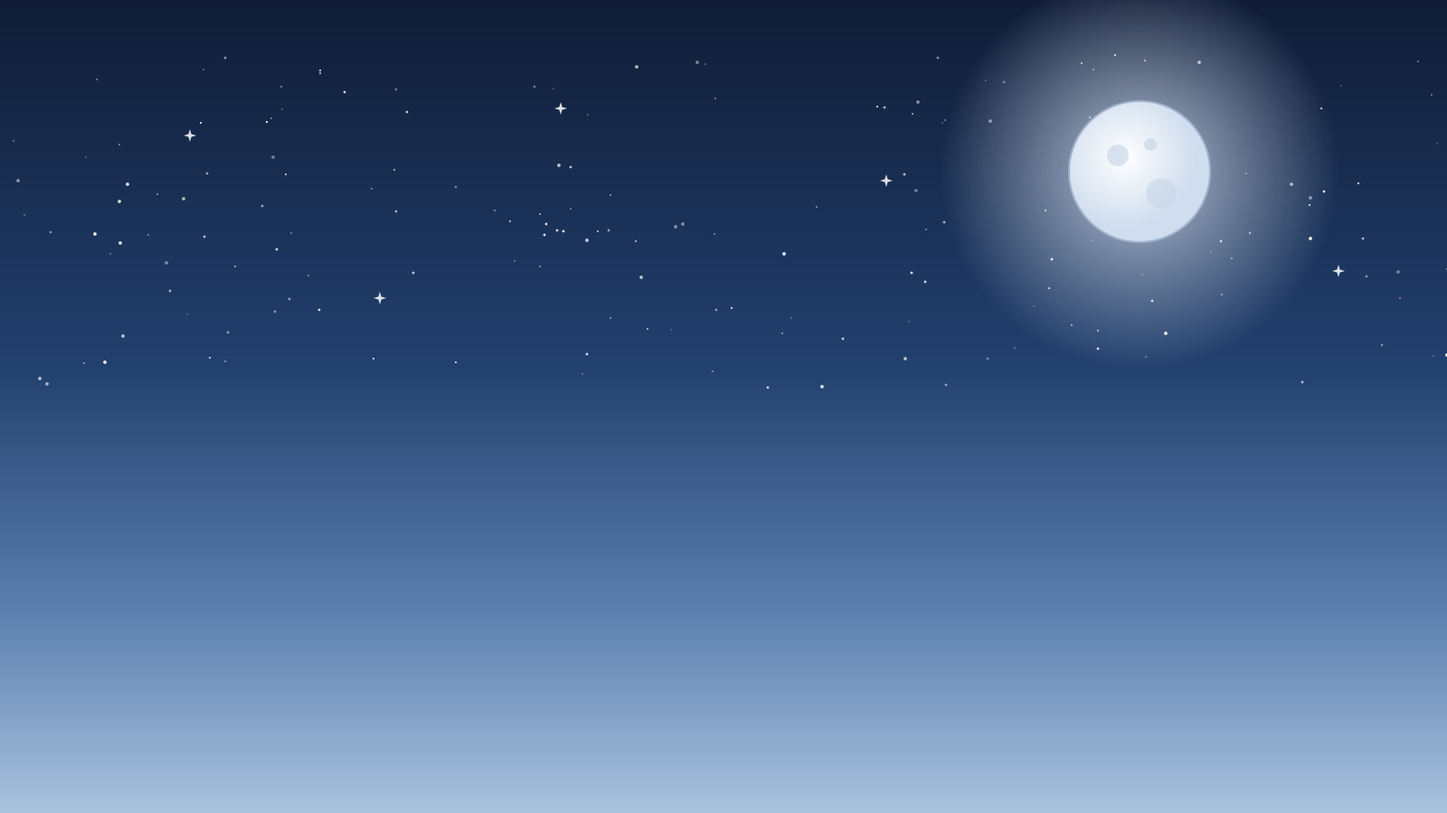
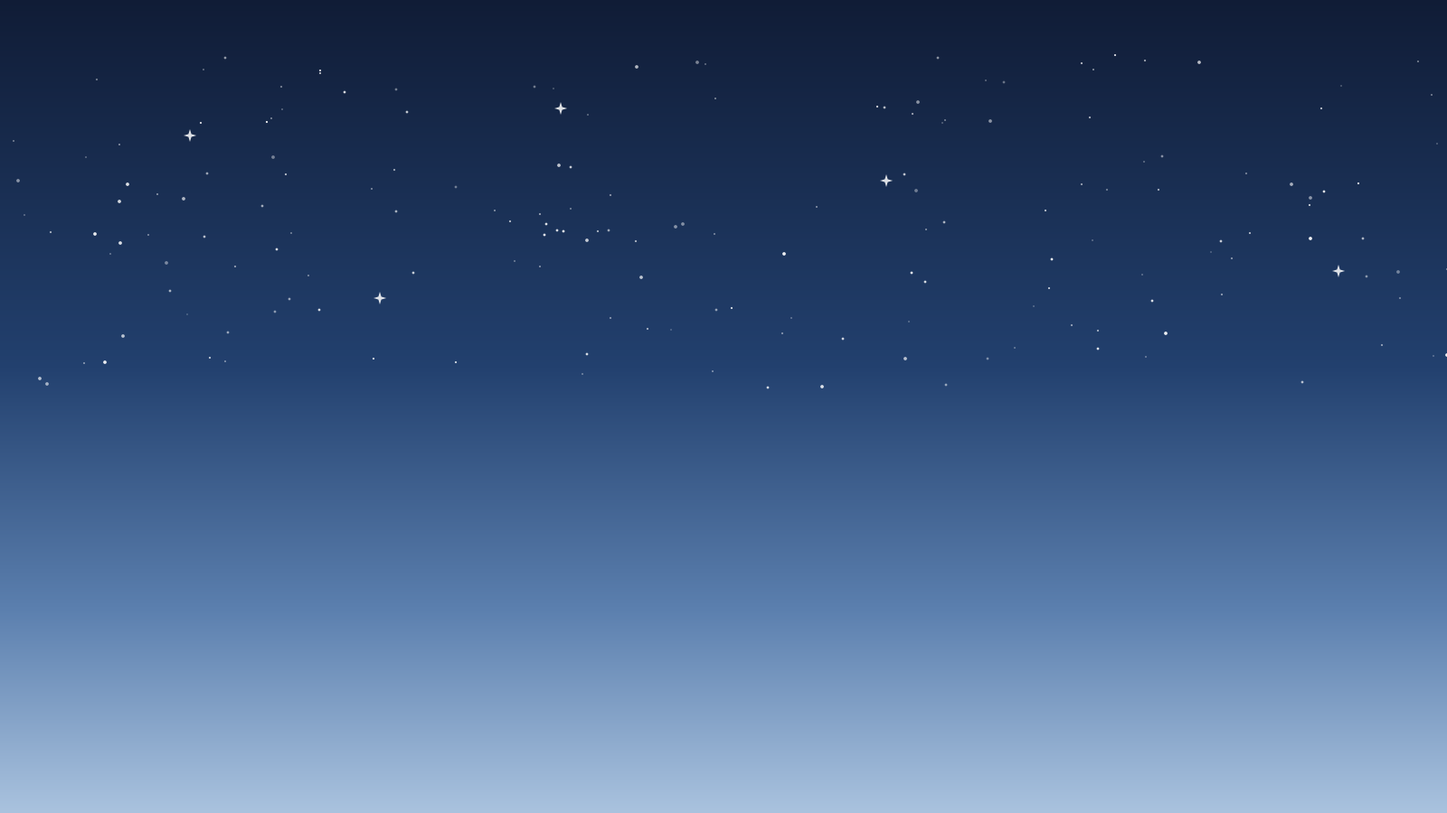
rig for red one

Changed region(s): [[0.6562, 0.0, 0.9062, 0.4356]]

diff --git a/assets/puppet/chien_binh_tuyet/preview.html b/assets/puppet/chien_binh_tuyet/preview.html
@@ -15,7 +15,7 @@
 <button id="sway">Lắc lư</button><button id="piv">Pivot</button><button id="reset">Reset</button></div>
 <div id="sl"></div></div>
 <script>
-const RIG = {"name": "chien_binh_tuyet", "units": "design units (1 unit = 2 px in PNG); y points down; _L = viewer's left; colliders are relative to the part pivot", "canvas": [400, 720], "pngScale": 2, "feetY": 676, "parts": [{"id": "torso", "parent": null, "z": 4, "svg": "parts/torso.svg", "png": "parts/torso.png", "origin": [144, 170], "size": [112, 183], "pivot": [56, 110], "pivotWorld": [200, 280], "limitDeg": null, "density": 1.0, "colliders": [{"type": "capsule", "a": [0, -44], "b": [0, 38], "r": 40}]}, {"id": "head", "parent": "torso", "z": 11, "svg": "parts/head.svg", "png": "parts/head.png", "origin": [141, 40], "size": [118, 209], "pivot": [59, 150], "pivotWorld": [200, 190], "limitDeg": [-30, 30], "density": 0.8, "colliders": [{"type": "circle", "c": [0, -48], "r": 38}, {"type": "capsule", "a": [-34, -102], "b": [34, -102], "r": 24}]}, {"id": "braid", "parent": "head", "z": 7, "svg": "parts/braid.svg", "png": "parts/braid.png", "origin": [140, 151], "size": [48, 235], "pivot": [34, 9], "pivotWorld": [174, 160], "limitDeg": [-25, 25], "density": 0.25, "colliders": [{"type": "capsule", "a": [-4, 15], "b": [-14, 205], "r": 12}]}, {"id": "cape", "parent": "torso", "z": 0, "svg": "parts/cape.svg", "png": "parts/cape.png", "origin": [96, 194], "size": [208, 422], "pivot": [104, 16], "pivotWorld": [200, 210], "limitDeg": [-18, 18], "density": 0.2, "colliders": [{"type": "capsule", "a": [0, 50], "b": [0, 350], "r": 48}]}, {"id": "skirt", "parent": "torso", "z": 5, "svg": "parts/skirt.svg", "png": "parts/skirt.png", "origin": [100, 325], "size": [200, 339], "pivot": [100, 9], "pivotWorld": [200, 334], "limitDeg": [-12, 12], "density": 0.3, "colliders": [{"type": "capsule", "a": [0, 76], "b": [0, 256], "r": 62}]}, {"id": "thigh_L", "parent": "torso", "z": 2, "svg": "parts/thigh_L.svg", "png": "parts/thigh_L.png", "origin": [159, 348], "size": [49, 173], "pivot": [25, 24], "pivotWorld": [184, 372], "limitDeg": [-70, 60], "density": 1.0, "colliders": [{"type": "capsule", "a": [0, 0], "b": [-4, 128], "r": 16}]}, {"id": "shin_L", "parent": "thigh_L", "z": 1, "svg": "parts/shin_L.svg", "png": "parts/shin_L.png", "origin": [132, 479], "size": [71, 181], "pivot": [48, 21], "pivotWorld": [180, 500], "limitDeg": [-10, 120], "density": 1.0, "colliders": [{"type": "capsule", "a": [0, 0], "b": [-2, 122], "r": 14}, {"type": "capsule", "a": [2, 142], "b": [-32, 148], "r": 9}]}, {"id": "thigh_R", "parent": "torso", "z": 2, "svg": "parts/thigh_R.svg", "png": "parts/thigh_R.png", "origin": [192, 348], "size": [49, 173], "pivot": [24, 24], "pivotWorld": [216, 372], "limitDeg": [-60, 70], "density": 1.0, "colliders": [{"type": "capsule", "a": [0, 0], "b": [4, 128], "r": 16}]}, {"id": "shin_R", "parent": "thigh_R", "z": 1, "svg": "parts/shin_R.svg", "png": "parts/shin_R.png", "origin": [197, 479], "size": [71, 181], "pivot": [23, 21], "pivotWorld": [220, 500], "limitDeg": [-120, 10], "density": 1.0, "colliders": [{"type": "capsule", "a": [0, 0], "b": [2, 122], "r": 14}, {"type": "capsule", "a": [-2, 142], "b": [32, 148], "r": 9}]}, {"id": "upper_arm_L", "parent": "torso", "z": 8, "svg": "parts/upper_arm_L.svg", "png": "parts/upper_arm_L.png", "origin": [113, 204], "size": [71, 117], "pivot": [47, 20], "pivotWorld": [160, 224], "limitDeg": [-150, 60], "density": 1.0, "colliders": [{"type": "capsule", "a": [0, 0], "b": [-30, 80], "r": 12}]}, {"id": "forearm_L", "parent": "upper_arm_L", "z": 9, "svg": "parts/forearm_L.svg", "png": "parts/forearm_L.png", "origin": [96, 287], "size": [51, 139], "pivot": [34, 17], "pivotWorld": [130, 304], "limitDeg": [-140, 10], "density": 1.0, "colliders": [{"type": "capsule", "a": [0, 0], "b": [-18.2, 106.6], "r": 10}]}, {"id": "upper_arm_R", "parent": "torso", "z": 8, "svg": "parts/upper_arm_R.svg", "png": "parts/upper_arm_R.png", "origin": [216, 204], "size": [71, 117], "pivot": [24, 20], "pivotWorld": [240, 224], "limitDeg": [-60, 150], "density": 1.0, "colliders": [{"type": "capsule", "a": [0, 0], "b": [30, 80], "r": 12}]}, {"id": "forearm_R", "parent": "upper_arm_R", "z": 10, "svg": "parts/forearm_R.svg", "png": "parts/forearm_R.png", "origin": [253, 287], "size": [51, 139], "pivot": [17, 17], "pivotWorld": [270, 304], "limitDeg": [-10, 140], "density": 1.0, "colliders": [{"type": "capsule", "a": [0, 0], "b": [18.2, 106.6], "r": 10}]}, {"id": "spear", "parent": "forearm_R", "z": 6, "svg": "parts/spear.svg", "png": "parts/spear.png", "origin": [258, 0], "size": [50, 680], "pivot": [30, 398], "pivotWorld": [288, 398], "limitDeg": [-15, 15], "density": 0.5, "colliders": [{"type": "capsule", "a": [0, -378], "b": [0, 266], "r": 7}]}], "strings": [{"id": "head", "part": "head", "anchor": [59, 10], "anchorWorld": [200, 50], "finger": "middle", "mpLandmark": 12}, {"id": "hand_L", "part": "forearm_L", "anchor": [16.92, 117.04], "anchorWorld": [112.92, 404.04], "finger": "index", "mpLandmark": 8}, {"id": "hand_R", "part": "forearm_R", "anchor": [34.08, 117.04], "anchorWorld": [287.08, 404.04], "finger": "ring", "mpLandmark": 16}, {"id": "knee_L", "part": "shin_L", "anchor": [48, 21], "anchorWorld": [180, 500], "finger": "thumb", "mpLandmark": 4}, {"id": "knee_R", "part": "shin_R", "anchor": [23, 21], "anchorWorld": [220, 500], "finger": "pinky", "mpLandmark": 20}]};
+const RIG = {"name": "chien_binh_tuyet", "units": "design units (1 unit = 2 px in PNG); y points down; _L = viewer's left; colliders are relative to the part pivot", "canvas": [400, 720], "pngScale": 2, "feetY": 676, "parts": [{"id": "torso", "parent": null, "z": 4, "svg": "parts/torso.svg", "png": "parts/torso.png", "origin": [144, 170], "size": [112, 183], "pivot": [56, 110], "pivotWorld": [200, 280], "limitDeg": null, "density": 1.0, "colliders": [{"type": "capsule", "a": [0, -44], "b": [0, 38], "r": 40}]}, {"id": "head", "parent": "torso", "z": 11, "svg": "parts/head.svg", "png": "parts/head.png", "origin": [141, 40], "size": [118, 209], "pivot": [59, 150], "pivotWorld": [200, 190], "limitDeg": [-30, 30], "density": 0.8, "colliders": [{"type": "circle", "c": [0, -48], "r": 38}, {"type": "capsule", "a": [-34, -102], "b": [34, -102], "r": 24}]}, {"id": "braid", "parent": "head", "z": 7, "svg": "parts/braid.svg", "png": "parts/braid.png", "origin": [140, 151], "size": [48, 235], "pivot": [34, 9], "pivotWorld": [174, 160], "limitDeg": [-25, 25], "density": 0.25, "colliders": [{"type": "capsule", "a": [-4, 15], "b": [-14, 205], "r": 12}]}, {"id": "cape", "parent": "torso", "z": 0, "svg": "parts/cape.svg", "png": "parts/cape.png", "origin": [96, 194], "size": [208, 422], "pivot": [104, 16], "pivotWorld": [200, 210], "limitDeg": [-18, 18], "density": 0.2, "colliders": [{"type": "capsule", "a": [0, 50], "b": [0, 310], "r": 48}, {"type": "capsule", "a": [-64, 360], "b": [64, 360], "r": 30}]}, {"id": "skirt", "parent": "torso", "z": 5, "svg": "parts/skirt.svg", "png": "parts/skirt.png", "origin": [100, 325], "size": [200, 339], "pivot": [100, 9], "pivotWorld": [200, 334], "limitDeg": [-12, 12], "density": 0.3, "colliders": [{"type": "capsule", "a": [0, 76], "b": [0, 226], "r": 62}, {"type": "capsule", "a": [-64, 278], "b": [64, 278], "r": 30}]}, {"id": "thigh_L", "parent": "torso", "z": 2, "svg": "parts/thigh_L.svg", "png": "parts/thigh_L.png", "origin": [159, 348], "size": [49, 173], "pivot": [25, 24], "pivotWorld": [184, 372], "limitDeg": [-70, 60], "density": 1.0, "colliders": [{"type": "capsule", "a": [0, 0], "b": [-4, 128], "r": 16}]}, {"id": "shin_L", "parent": "thigh_L", "z": 1, "svg": "parts/shin_L.svg", "png": "parts/shin_L.png", "origin": [132, 479], "size": [71, 181], "pivot": [48, 21], "pivotWorld": [180, 500], "limitDeg": [-10, 120], "density": 1.0, "colliders": [{"type": "capsule", "a": [0, 0], "b": [-2, 122], "r": 14}, {"type": "capsule", "a": [2, 142], "b": [-32, 148], "r": 9}]}, {"id": "thigh_R", "parent": "torso", "z": 2, "svg": "parts/thigh_R.svg", "png": "parts/thigh_R.png", "origin": [192, 348], "size": [49, 173], "pivot": [24, 24], "pivotWorld": [216, 372], "limitDeg": [-60, 70], "density": 1.0, "colliders": [{"type": "capsule", "a": [0, 0], "b": [4, 128], "r": 16}]}, {"id": "shin_R", "parent": "thigh_R", "z": 1, "svg": "parts/shin_R.svg", "png": "parts/shin_R.png", "origin": [197, 479], "size": [71, 181], "pivot": [23, 21], "pivotWorld": [220, 500], "limitDeg": [-120, 10], "density": 1.0, "colliders": [{"type": "capsule", "a": [0, 0], "b": [2, 122], "r": 14}, {"type": "capsule", "a": [-2, 142], "b": [32, 148], "r": 9}]}, {"id": "upper_arm_L", "parent": "torso", "z": 8, "svg": "parts/upper_arm_L.svg", "png": "parts/upper_arm_L.png", "origin": [113, 204], "size": [71, 117], "pivot": [47, 20], "pivotWorld": [160, 224], "limitDeg": [-150, 60], "density": 1.0, "colliders": [{"type": "capsule", "a": [0, 0], "b": [-30, 80], "r": 12}]}, {"id": "forearm_L", "parent": "upper_arm_L", "z": 9, "svg": "parts/forearm_L.svg", "png": "parts/forearm_L.png", "origin": [96, 287], "size": [51, 139], "pivot": [34, 17], "pivotWorld": [130, 304], "limitDeg": [-140, 10], "density": 1.0, "colliders": [{"type": "capsule", "a": [0, 0], "b": [-18.2, 106.6], "r": 10}]}, {"id": "upper_arm_R", "parent": "torso", "z": 8, "svg": "parts/upper_arm_R.svg", "png": "parts/upper_arm_R.png", "origin": [216, 204], "size": [71, 117], "pivot": [24, 20], "pivotWorld": [240, 224], "limitDeg": [-60, 150], "density": 1.0, "colliders": [{"type": "capsule", "a": [0, 0], "b": [30, 80], "r": 12}]}, {"id": "forearm_R", "parent": "upper_arm_R", "z": 10, "svg": "parts/forearm_R.svg", "png": "parts/forearm_R.png", "origin": [253, 287], "size": [51, 139], "pivot": [17, 17], "pivotWorld": [270, 304], "limitDeg": [-10, 140], "density": 1.0, "colliders": [{"type": "capsule", "a": [0, 0], "b": [18.2, 106.6], "r": 10}]}, {"id": "spear", "parent": "forearm_R", "z": 6, "svg": "parts/spear.svg", "png": "parts/spear.png", "origin": [258, 0], "size": [50, 680], "pivot": [30, 398], "pivotWorld": [288, 398], "limitDeg": [-15, 15], "density": 0.5, "colliders": [{"type": "capsule", "a": [0, -378], "b": [0, 266], "r": 7}]}], "strings": [{"id": "head", "part": "head", "anchor": [59, 10], "anchorWorld": [200, 50], "finger": "middle", "mpLandmark": 12}, {"id": "hand_L", "part": "forearm_L", "anchor": [16.92, 117.04], "anchorWorld": [112.92, 404.04], "finger": "index", "mpLandmark": 8}, {"id": "hand_R", "part": "forearm_R", "anchor": [34.08, 117.04], "anchorWorld": [287.08, 404.04], "finger": "ring", "mpLandmark": 16}, {"id": "knee_L", "part": "shin_L", "anchor": [48, 21], "anchorWorld": [180, 500], "finger": "thumb", "mpLandmark": 4}, {"id": "knee_R", "part": "shin_R", "anchor": [23, 21], "anchorWorld": [220, 500], "finger": "pinky", "mpLandmark": 20}]};
 const cv = document.getElementById('cv'), ctx = cv.getContext('2d'), S = RIG.pngScale;
 const P = Object.fromEntries(RIG.parts.map(p => [p.id, {...p, angle: 0, img: new Image()}]));
 let n = 0, sway = false, piv = false, t0 = 0;

diff --git a/assets/puppet/ve_binh_streltsy/preview.html b/assets/puppet/ve_binh_streltsy/preview.html
@@ -15,7 +15,7 @@
 <button id="sway">Lắc lư</button><button id="piv">Pivot</button><button id="reset">Reset</button></div>
 <div id="sl"></div></div>
 <script>
-const RIG = {"name": "ve_binh_streltsy", "units": "design units (1 unit = 2 px in PNG); y points down; _L = viewer's left; colliders are relative to the part pivot", "canvas": [400, 720], "pngScale": 2, "feetY": 656, "parts": [{"id": "torso", "parent": null, "z": 4, "svg": "parts/torso.svg", "png": "parts/torso.png", "origin": [144, 170], "size": [112, 225], "pivot": [56, 110], "pivotWorld": [200, 280], "limitDeg": null, "density": 1.0, "colliders": [{"type": "capsule", "a": [0, -44], "b": [0, 38], "r": 40}]}, {"id": "head", "parent": "torso", "z": 11, "svg": "parts/head.svg", "png": "parts/head.png", "origin": [140, 28], "size": [120, 207], "pivot": [60, 162], "pivotWorld": [200, 190], "limitDeg": [-30, 30], "density": 0.8, "colliders": [{"type": "circle", "c": [0, -48], "r": 38}, {"type": "capsule", "a": [-32, -106], "b": [32, -106], "r": 30}]}, {"id": "braid", "parent": "head", "z": 7, "svg": "parts/braid.svg", "png": "parts/braid.png", "origin": [213, 151], "size": [49, 233], "pivot": [13, 9], "pivotWorld": [226, 160], "limitDeg": [-25, 25], "density": 0.25, "colliders": [{"type": "capsule", "a": [4, 15], "b": [14, 205], "r": 12}]}, {"id": "skirt", "parent": "torso", "z": 5, "svg": "parts/skirt.svg", "png": "parts/skirt.png", "origin": [130, 325], "size": [140, 260], "pivot": [70, 9], "pivotWorld": [200, 334], "limitDeg": [-12, 12], "density": 0.3, "colliders": [{"type": "capsule", "a": [0, 56], "b": [0, 206], "r": 46}]}, {"id": "thigh_L", "parent": "torso", "z": 2, "svg": "parts/thigh_L.svg", "png": "parts/thigh_L.png", "origin": [159, 348], "size": [49, 173], "pivot": [25, 24], "pivotWorld": [184, 372], "limitDeg": [-70, 60], "density": 1.0, "colliders": [{"type": "capsule", "a": [0, 0], "b": [-4, 128], "r": 16}]}, {"id": "shin_L", "parent": "thigh_L", "z": 1, "svg": "parts/shin_L.svg", "png": "parts/shin_L.png", "origin": [124, 479], "size": [78, 181], "pivot": [56, 21], "pivotWorld": [180, 500], "limitDeg": [-10, 120], "density": 1.0, "colliders": [{"type": "capsule", "a": [0, 0], "b": [-2, 122], "r": 14}, {"type": "capsule", "a": [2, 142], "b": [-42, 144], "r": 9}]}, {"id": "thigh_R", "parent": "torso", "z": 2, "svg": "parts/thigh_R.svg", "png": "parts/thigh_R.png", "origin": [192, 348], "size": [49, 173], "pivot": [24, 24], "pivotWorld": [216, 372], "limitDeg": [-60, 70], "density": 1.0, "colliders": [{"type": "capsule", "a": [0, 0], "b": [4, 128], "r": 16}]}, {"id": "shin_R", "parent": "thigh_R", "z": 1, "svg": "parts/shin_R.svg", "png": "parts/shin_R.png", "origin": [198, 479], "size": [78, 181], "pivot": [22, 21], "pivotWorld": [220, 500], "limitDeg": [-120, 10], "density": 1.0, "colliders": [{"type": "capsule", "a": [0, 0], "b": [2, 122], "r": 14}, {"type": "capsule", "a": [-2, 142], "b": [42, 144], "r": 9}]}, {"id": "upper_arm_L", "parent": "torso", "z": 8, "svg": "parts/upper_arm_L.svg", "png": "parts/upper_arm_L.png", "origin": [112, 204], "size": [68, 118], "pivot": [48, 20], "pivotWorld": [160, 224], "limitDeg": [-150, 60], "density": 1.0, "colliders": [{"type": "capsule", "a": [0, 0], "b": [-30, 80], "r": 12}]}, {"id": "forearm_L", "parent": "upper_arm_L", "z": 10, "svg": "parts/forearm_L.svg", "png": "parts/forearm_L.png", "origin": [96, 286], "size": [52, 140], "pivot": [34, 18], "pivotWorld": [130, 304], "limitDeg": [-140, 10], "density": 1.0, "colliders": [{"type": "capsule", "a": [0, 0], "b": [-18.2, 106.6], "r": 10}]}, {"id": "upper_arm_R", "parent": "torso", "z": 8, "svg": "parts/upper_arm_R.svg", "png": "parts/upper_arm_R.png", "origin": [220, 204], "size": [68, 118], "pivot": [20, 20], "pivotWorld": [240, 224], "limitDeg": [-60, 150], "density": 1.0, "colliders": [{"type": "capsule", "a": [0, 0], "b": [30, 80], "r": 12}]}, {"id": "forearm_R", "parent": "upper_arm_R", "z": 9, "svg": "parts/forearm_R.svg", "png": "parts/forearm_R.png", "origin": [252, 286], "size": [52, 140], "pivot": [18, 18], "pivotWorld": [270, 304], "limitDeg": [-10, 140], "density": 1.0, "colliders": [{"type": "capsule", "a": [0, 0], "b": [18.2, 106.6], "r": 10}]}, {"id": "saber", "parent": "forearm_L", "z": 6, "svg": "parts/saber.svg", "png": "parts/saber.png", "origin": [63, 98], "size": [74, 387], "pivot": [52, 296], "pivotWorld": [115, 394], "limitDeg": [-20, 20], "density": 0.4, "colliders": [{"type": "capsule", "a": [0, -30], "b": [-14, -180], "r": 7}, {"type": "capsule", "a": [-14, -180], "b": [-46, -290], "r": 6}]}], "strings": [{"id": "head", "part": "head", "anchor": [60, 16], "anchorWorld": [200, 44], "finger": "middle", "mpLandmark": 12}, {"id": "hand_L", "part": "forearm_L", "anchor": [16.92, 118.04], "anchorWorld": [112.92, 404.04], "finger": "index", "mpLandmark": 8}, {"id": "hand_R", "part": "forearm_R", "anchor": [35.08, 118.04], "anchorWorld": [287.08, 404.04], "finger": "ring", "mpLandmark": 16}, {"id": "knee_L", "part": "shin_L", "anchor": [56, 21], "anchorWorld": [180, 500], "finger": "thumb", "mpLandmark": 4}, {"id": "knee_R", "part": "shin_R", "anchor": [22, 21], "anchorWorld": [220, 500], "finger": "pinky", "mpLandmark": 20}]};
+const RIG = {"name": "ve_binh_streltsy", "units": "design units (1 unit = 2 px in PNG); y points down; _L = viewer's left; colliders are relative to the part pivot", "canvas": [400, 720], "pngScale": 2, "feetY": 656, "parts": [{"id": "torso", "parent": null, "z": 4, "svg": "parts/torso.svg", "png": "parts/torso.png", "origin": [144, 170], "size": [112, 225], "pivot": [56, 110], "pivotWorld": [200, 280], "limitDeg": null, "density": 1.0, "colliders": [{"type": "capsule", "a": [0, -44], "b": [0, 38], "r": 40}]}, {"id": "head", "parent": "torso", "z": 11, "svg": "parts/head.svg", "png": "parts/head.png", "origin": [140, 28], "size": [120, 207], "pivot": [60, 162], "pivotWorld": [200, 190], "limitDeg": [-30, 30], "density": 0.8, "colliders": [{"type": "circle", "c": [0, -48], "r": 38}, {"type": "capsule", "a": [-32, -106], "b": [32, -106], "r": 30}]}, {"id": "braid", "parent": "head", "z": 7, "svg": "parts/braid.svg", "png": "parts/braid.png", "origin": [213, 151], "size": [49, 233], "pivot": [13, 9], "pivotWorld": [226, 160], "limitDeg": [-25, 25], "density": 0.25, "colliders": [{"type": "capsule", "a": [4, 15], "b": [14, 205], "r": 12}]}, {"id": "skirt", "parent": "torso", "z": 5, "svg": "parts/skirt.svg", "png": "parts/skirt.png", "origin": [130, 325], "size": [140, 260], "pivot": [70, 9], "pivotWorld": [200, 334], "limitDeg": [-12, 12], "density": 0.3, "colliders": [{"type": "capsule", "a": [0, 56], "b": [0, 186], "r": 46}, {"type": "capsule", "a": [-44, 218], "b": [44, 218], "r": 22}]}, {"id": "thigh_L", "parent": "torso", "z": 2, "svg": "parts/thigh_L.svg", "png": "parts/thigh_L.png", "origin": [159, 348], "size": [49, 173], "pivot": [25, 24], "pivotWorld": [184, 372], "limitDeg": [-70, 60], "density": 1.0, "colliders": [{"type": "capsule", "a": [0, 0], "b": [-4, 128], "r": 16}]}, {"id": "shin_L", "parent": "thigh_L", "z": 1, "svg": "parts/shin_L.svg", "png": "parts/shin_L.png", "origin": [124, 479], "size": [78, 181], "pivot": [56, 21], "pivotWorld": [180, 500], "limitDeg": [-10, 120], "density": 1.0, "colliders": [{"type": "capsule", "a": [0, 0], "b": [-2, 122], "r": 14}, {"type": "capsule", "a": [2, 142], "b": [-42, 144], "r": 9}]}, {"id": "thigh_R", "parent": "torso", "z": 2, "svg": "parts/thigh_R.svg", "png": "parts/thigh_R.png", "origin": [192, 348], "size": [49, 173], "pivot": [24, 24], "pivotWorld": [216, 372], "limitDeg": [-60, 70], "density": 1.0, "colliders": [{"type": "capsule", "a": [0, 0], "b": [4, 128], "r": 16}]}, {"id": "shin_R", "parent": "thigh_R", "z": 1, "svg": "parts/shin_R.svg", "png": "parts/shin_R.png", "origin": [198, 479], "size": [78, 181], "pivot": [22, 21], "pivotWorld": [220, 500], "limitDeg": [-120, 10], "density": 1.0, "colliders": [{"type": "capsule", "a": [0, 0], "b": [2, 122], "r": 14}, {"type": "capsule", "a": [-2, 142], "b": [42, 144], "r": 9}]}, {"id": "upper_arm_L", "parent": "torso", "z": 8, "svg": "parts/upper_arm_L.svg", "png": "parts/upper_arm_L.png", "origin": [112, 204], "size": [68, 118], "pivot": [48, 20], "pivotWorld": [160, 224], "limitDeg": [-150, 60], "density": 1.0, "colliders": [{"type": "capsule", "a": [0, 0], "b": [-30, 80], "r": 12}]}, {"id": "forearm_L", "parent": "upper_arm_L", "z": 10, "svg": "parts/forearm_L.svg", "png": "parts/forearm_L.png", "origin": [96, 286], "size": [52, 140], "pivot": [34, 18], "pivotWorld": [130, 304], "limitDeg": [-140, 10], "density": 1.0, "colliders": [{"type": "capsule", "a": [0, 0], "b": [-18.2, 106.6], "r": 10}]}, {"id": "upper_arm_R", "parent": "torso", "z": 8, "svg": "parts/upper_arm_R.svg", "png": "parts/upper_arm_R.png", "origin": [220, 204], "size": [68, 118], "pivot": [20, 20], "pivotWorld": [240, 224], "limitDeg": [-60, 150], "density": 1.0, "colliders": [{"type": "capsule", "a": [0, 0], "b": [30, 80], "r": 12}]}, {"id": "forearm_R", "parent": "upper_arm_R", "z": 9, "svg": "parts/forearm_R.svg", "png": "parts/forearm_R.png", "origin": [252, 286], "size": [52, 140], "pivot": [18, 18], "pivotWorld": [270, 304], "limitDeg": [-10, 140], "density": 1.0, "colliders": [{"type": "capsule", "a": [0, 0], "b": [18.2, 106.6], "r": 10}]}, {"id": "saber", "parent": "forearm_L", "z": 6, "svg": "parts/saber.svg", "png": "parts/saber.png", "origin": [63, 98], "size": [74, 387], "pivot": [52, 296], "pivotWorld": [115, 394], "limitDeg": [-20, 20], "density": 0.4, "colliders": [{"type": "capsule", "a": [0, -30], "b": [-14, -180], "r": 7}, {"type": "capsule", "a": [-14, -180], "b": [-46, -290], "r": 6}]}], "strings": [{"id": "head", "part": "head", "anchor": [60, 16], "anchorWorld": [200, 44], "finger": "middle", "mpLandmark": 12}, {"id": "hand_L", "part": "forearm_L", "anchor": [16.92, 118.04], "anchorWorld": [112.92, 404.04], "finger": "index", "mpLandmark": 8}, {"id": "hand_R", "part": "forearm_R", "anchor": [35.08, 118.04], "anchorWorld": [287.08, 404.04], "finger": "ring", "mpLandmark": 16}, {"id": "knee_L", "part": "shin_L", "anchor": [56, 21], "anchorWorld": [180, 500], "finger": "thumb", "mpLandmark": 4}, {"id": "knee_R", "part": "shin_R", "anchor": [22, 21], "anchorWorld": [220, 500], "finger": "pinky", "mpLandmark": 20}]};
 const cv = document.getElementById('cv'), ctx = cv.getContext('2d'), S = RIG.pngScale;
 const P = Object.fromEntries(RIG.parts.map(p => [p.id, {...p, angle: 0, img: new Image()}]));
 let n = 0, sway = false, piv = false, t0 = 0;

diff --git a/web/src/puppet.ts b/web/src/puppet.ts
@@ -71,8 +71,14 @@ export class Puppet {
   private graceUntil = 0;          // keep "hand present" while an ultimate gesture blurs the hand
   private noAttachUntil = 0;       // strings stay cut until then (ultimates)
   private weapons: { id: string; tip: Vec2; base: Vec2; body: Body }[] = [];
+  private order: PartRT[] = [];                       // parents before children
+  private joints = new Map<PartRT, RevoluteJoint>();
+  private restOffset = new Map<PartRT, Vec2>();       // pivot offset from the torso pivot (m)
+  private standY = 0;                                 // torso pivot y when standing (m)
+  private scatter: { phase: "flying" | "assembling"; t: number; fly: number;
+    from: { p: Vec2; a: number }[]; to: { p: Vec2; a: number }[] } | null = null;
   /** "cut" when the strings snap, "attach" when they reconnect. */
-  onEvent?: (e: "cut" | "attach") => void;
+  onEvent?: (e: "cut" | "attach" | "assembled") => void;
   private droppedTips: Pt[] = [];
 
   constructor(private world: World, asset: PuppetAsset, private stage: Stage, homeX: number, label: string) {
@@ -128,18 +134,16 @@ export class Puppet {
       this.parts.push(rt);
       this.byId.set(def.id, rt);
       if (def.parent) {
-        const parent = this.byId.get(def.parent)!;
-        const lim = def.limitDeg;
-        world.createJoint(new RevoluteJoint({
-          enableLimit: !!lim,
-          lowerAngle: lim ? (lim[0] * Math.PI) / 180 : 0,
-          upperAngle: lim ? (lim[1] * Math.PI) / 180 : 0,
-          enableMotor: true, motorSpeed: 0, maxMotorTorque: CFG.jointFriction * body.getMass(),
-        }, parent.body, body, body.getPosition()));
+        this.makeJoint(rt);
       } else {
         this.torso = rt;
       }
     }
+    this.order = [...this.parts];
+    const torsoPivot = this.torso.def.pivotWorld;
+    for (const p of this.order)
+      this.restOffset.set(p, Vec2((p.def.pivotWorld[0] - torsoPivot[0]) * s, (p.def.pivotWorld[1] - torsoPivot[1]) * s));
+    this.standY = m(toStage(...torsoPivot).y);
     this.parts.sort((a, b) => a.def.z - b.def.z);
     // weapon blade: farthest collider point from the grip is the tip
     for (const p of this.parts) {
@@ -215,6 +219,7 @@ export class Puppet {
   update(dt: number, now: number) {
     this.stateTime += dt;
     this.staggerT = Math.max(0, this.staggerT - dt);
+    if (this.scatter) this.updateScatter(dt);
     const present = now - this.lastSeen < CFG.loseAfter * 1000 || now < this.graceUntil;
     if (this.state !== "DETACHED" && !present) this.detach(now);
     else if (this.state === "DETACHED" && this.seenFrames >= CFG.attachFrames && this.control
@@ -294,6 +299,74 @@ export class Puppet {
     this.setState("REATTACHING");
     this.onEvent?.("attach");
   }
+
+  private makeJoint(rt: PartRT) {
+    const parent = this.byId.get(rt.def.parent!)!;
+    const lim = rt.def.limitDeg;
+    const j = this.world.createJoint(new RevoluteJoint({
+      enableLimit: !!lim,
+      lowerAngle: lim ? (lim[0] * Math.PI) / 180 : 0,
+      upperAngle: lim ? (lim[1] * Math.PI) / 180 : 0,
+      enableMotor: true, motorSpeed: 0, maxMotorTorque: CFG.jointFriction * rt.body.getMass(),
+    }, parent.body, rt.body, rt.body.getPosition()));
+    if (j) this.joints.set(rt, j as RevoluteJoint);
+  }
+
+  /** Break every joint and throw the parts across the screen for `seconds`, then fly them
+   *  back together into a standing puppet. Strings stay cut until it is whole again. */
+  shatter(now: number, seconds: number) {
+    const A = CFG.ult.giantSword;
+    if (this.scatter) for (const p of this.order) p.body.setDynamic();   // hit again while reassembling
+    this.forceDetach(now, seconds + A.assembleTime + 0.15);
+    for (const j of this.joints.values()) this.world.destroyJoint(j);
+    this.joints.clear();
+    for (const p of this.parts) {
+      const a = Math.random() * Math.PI * 2, sp = A.scatterSpeed[0] + Math.random() * (A.scatterSpeed[1] - A.scatterSpeed[0]);
+      p.body.setLinearVelocity(Vec2(Math.cos(a) * sp, Math.sin(a) * sp - 3));
+      p.body.setAngularVelocity((Math.random() - 0.5) * 30);
+    }
+    this.scatter = { phase: "flying", t: 0, fly: seconds, from: [], to: [] };
+  }
+
+  get scattered() { return this.scatter !== null; }
+
+  private updateScatter(dt: number) {
+    const sc = this.scatter!;
+    sc.t += dt;
+    if (sc.phase === "flying" && sc.t >= sc.fly) {
+      // fly back: torso upright at standing height, every part at its rest offset
+      sc.phase = "assembling";
+      sc.t = 0;
+      const W = this.stage.size[0];
+      const tx = Math.min(m(W - 260), Math.max(m(260), this.torso.body.getPosition().x));
+      sc.from = this.order.map((p) => ({ p: p.body.getPosition().clone(), a: p.body.getAngle() }));
+      sc.to = this.order.map((p) => {
+        const o = this.restOffset.get(p)!;
+        return { p: Vec2(tx + o.x, this.standY + o.y), a: 0 };
+      });
+      for (const p of this.order) { p.body.setKinematic(); p.body.setLinearVelocity(Vec2(0, 0)); p.body.setAngularVelocity(0); }
+    }
+    if (sc.phase === "assembling") {
+      const e = smooth(sc.t / CFG.ult.giantSword.assembleTime);
+      this.order.forEach((p, i) => {
+        const f = sc.from[i], t = sc.to[i];
+        // unwrap the angle so parts take the short way round
+        let a0 = f.a % (Math.PI * 2);
+        if (a0 > Math.PI) a0 -= Math.PI * 2;
+        if (a0 < -Math.PI) a0 += Math.PI * 2;
+        p.body.setTransform(Vec2(f.p.x + (t.p.x - f.p.x) * e, f.p.y + (t.p.y - f.p.y) * e), a0 + (t.a - a0) * e);
+      });
+      if (sc.t >= CFG.ult.giantSword.assembleTime) {
+        for (const p of this.order) { p.body.setDynamic(); p.body.setLinearVelocity(Vec2(0, 0)); p.body.setAngularVelocity(0); }
+        for (const p of this.order) if (p.def.parent) this.makeJoint(p);
+        this.scatter = null;
+        this.onEvent?.("assembled");
+      }
+    }
+  }
+
+  /** Torso centre in stage px. */
+  torsoPx(): Pt { const p = this.torso.body.getWorldCenter(); return { x: px(p.x), y: px(p.y) }; }
 
   /** Keep the hand counted as present until `until` (ms). */
   holdPresence(until: number) { this.graceUntil = Math.max(this.graceUntil, until); }

diff --git a/web/src/ult.ts b/web/src/ult.ts
@@ -1,8 +1,9 @@
 // Ultimates, drawn and simulated in stage pixels.
 //   giantSword (white warrior): a huge ice sword drops on the opponent's head (aimed where the
-//     head was when cast, so it can be dodged). A hit cuts the opponent's strings for 1 s.
-//   swordRain (red guard): small ice swords rain around the opponent for 4 s. The opponent's
-//     strings are cut for the whole time and every sword that lands on them throws them around.
+//     head was when cast, so it can be dodged). A hit breaks the opponent into pieces that fly
+//     around for 3 s, then reassemble; only then can the strings reconnect.
+//   swordRain (red guard): for 4 s small ice swords fly at the opponent from every side. The
+//     opponent's strings are cut the whole time and each hit throws them in a random direction.
 import { CFG, type Pt } from "./config";
 import type { Puppet } from "./puppet";
 import type { HitFx } from "./fx_blood";
@@ -87,11 +88,15 @@ export class Ultimates {
     for (const r of this.rains) {
       r.t += dt;
       r.acc += dt * R.perSecond;
-      const cx = r.target ? r.target.torsoX() : r.caster.torsoX() + 300;
+      const aim = r.target ? r.target.torsoPx() : { x: r.caster.torsoX() + 300, y: this.floorY - 250 };
       while (r.acc >= 1 && r.t < R.duration) {
         r.acc -= 1;
-        const vx = rand(-90, 90);
-        this.swords.push({ x: cx + rand(-R.spread, R.spread), y: this.topY - rand(40, 260), vx, vy: rand(1150, 1450),
+        // come from anywhere above or beside the target (never from under the ground)
+        const from = (rand(-195, 15) * Math.PI) / 180;
+        const sx = aim.x + Math.cos(from) * 1050, sy = aim.y + Math.sin(from) * 1050;
+        const tx = aim.x + rand(-R.aimSpread, R.aimSpread), ty = aim.y + rand(-R.aimSpread, R.aimSpread);
+        const d = Math.hypot(tx - sx, ty - sy), sp = rand(R.speed[0], R.speed[1]);
+        this.swords.push({ x: sx, y: sy, vx: ((tx - sx) / d) * sp, vy: ((ty - sy) / d) * sp,
           landed: 0, gone: false, id: this.nextId++ });
       }
       for (const s of this.swords) {
@@ -99,10 +104,8 @@ export class Ultimates {
         const body = r.target.hitTest(s.x, s.y) ?? r.target.hitTest(s.x - s.vx * 0.02, s.y - s.vy * 0.02);
         if (body) {
           s.gone = true;
-          const side = Math.random() < 0.5 ? -1 : 1;
-          const dir = { x: side * rand(0.4, 1), y: -rand(0.5, 1) };
-          const n = Math.hypot(dir.x, dir.y);
-          dir.x /= n; dir.y /= n;
+          const a = rand(0, Math.PI * 2);                 // up, down, left, right: anything
+          const dir = { x: Math.cos(a), y: Math.sin(a) };
           r.target.knockback(body, Vec2(m(s.x), m(s.y)), dir, rand(R.knockback.min, R.knockback.max));
           this.hitFx.blood(s.x, s.y, dir.x, dir.y, 0.2);
           this.sfx.hit(0.5);
@@ -115,7 +118,8 @@ export class Ultimates {
       if (s.gone) continue;
       if (!s.landed) {
         s.x += s.vx * dt; s.y += s.vy * dt;
-        if (s.y >= this.floorY + 14) { s.y = this.floorY + 14; s.landed = this.time; this.sfx.rainSword(); this.wfx.shatter(s.x, s.y, 4, 0.5); }
+        if (s.y >= this.floorY + 14 && s.vy > 0) { s.y = this.floorY + 14; s.landed = this.time; this.sfx.rainSword(); this.wfx.shatter(s.x, s.y, 4, 0.5); }
+        else if (s.x < -400 || s.x > 2000 || s.y < this.topY - 1200) s.gone = true;
       } else if (this.time - s.landed > 0.8) {
         s.gone = true;
       }
@@ -133,11 +137,7 @@ export class Ultimates {
         if (!body) continue;
         g.hit = true;
         const side = Math.sign(t.torsoX() - g.x) || 1;
-        const dir = { x: side * 0.45, y: 0.9 };
-        const n = Math.hypot(dir.x, dir.y);
-        dir.x /= n; dir.y /= n;
-        t.forceDetach(now, CFG.ult.giantSword.detach);
-        t.knockback(body, Vec2(m(g.x + dx), m(g.y + dy)), dir, CFG.ult.giantSword.knockback);
+        t.shatter(now, CFG.ult.giantSword.scatterTime);
         this.hitFx.blood(g.x, g.y + dy, side, -0.6, 1);
         this.hitFx.blood(g.x, g.y + dy, -side, -0.6, 0.8);
         this.wfx.shatter(g.x, g.y + dy, 30, 1);

diff --git a/web/src/fx_snow.ts b/web/src/fx_snow.ts
@@ -35,12 +35,16 @@ export class SnowFx implements SceneFx {
   private fire: { x: number; y: number };
   private glows: { x: number; y: number; r: number }[];
   private aurora: { y0: number; y1: number };
+  private moon: { x: number; y: number; r: number };
+  private flareStart = -100;
+  private nextFlare = rand(4, 8);
 
   constructor(private stage: Stage) {
     this.poles = stage.meta.poles;
     this.fire = stage.meta.fire;
     this.glows = stage.meta.tentGlows;
     this.aurora = stage.meta.aurora;
+    this.moon = stage.meta.moon ?? { x: 1260, y: 190, r: 78 };
     const [w, h] = stage.size;
     const make = (n: number, r: [number, number], vy: [number, number]): Flake[] =>
       Array.from({ length: n }, () => ({
@@ -65,6 +69,7 @@ export class SnowFx implements SceneFx {
     const [w, h] = this.stage.size;
     const g = this.gust;
     if (this.time >= this.nextGust) this.startGust();
+    if (this.time >= this.nextFlare) { this.flareStart = this.time; this.nextFlare = this.time + rand(7, 13); }
 
     // snow: gentle sway, carried sideways by the wind
     const wind = WIND_DIR * (12 + 520 * g);
@@ -121,6 +126,7 @@ export class SnowFx implements SceneFx {
   drawBackground(ctx: CanvasRenderingContext2D) {
     const [w, h] = this.stage.size;
     ctx.drawImage(this.stage.layers.sky, 0, 0, w, h);
+    this.drawMoon(ctx);
     this.drawAurora(ctx);
     ctx.drawImage(this.stage.layers.bg, 0, 0, w, h);
     this.drawTentGlow(ctx);
@@ -142,6 +148,39 @@ export class SnowFx implements SceneFx {
     ctx.beginPath();
     for (const f of fl) { ctx.moveTo(f.x + f.r, f.y); ctx.arc(f.x, f.y, f.r, 0, Math.PI * 2); }
     ctx.fill();
+    ctx.restore();
+  }
+
+  /** Moon: drifts slowly up and down, breathes between dimmer and brighter, and now and then
+   *  swells to a bright glow for a few seconds. */
+  private drawMoon(ctx: CanvasRenderingContext2D) {
+    const { x, r } = this.moon;
+    const t = this.time;
+    const y = this.moon.y + 14 * Math.sin((t * 2 * Math.PI) / 26);
+    const fu = (t - this.flareStart) / 3.2;
+    const flare = fu > 0 && fu < 1 ? Math.sin(Math.PI * fu) ** 2 : 0;
+    const b = 0.82 + 0.1 * Math.sin((t * 2 * Math.PI) / 9) + 0.3 * flare;   // ~0.72 .. 1.22
+    ctx.save();
+    const gr = r * (2.4 + 0.9 * b);
+    const glow = ctx.createRadialGradient(x, y, r * 0.6, x, y, gr);
+    glow.addColorStop(0, `rgba(232,242,255,${(0.55 * b).toFixed(3)})`);
+    glow.addColorStop(1, "rgba(232,242,255,0)");
+    ctx.fillStyle = glow;
+    ctx.beginPath(); ctx.arc(x, y, gr, 0, Math.PI * 2); ctx.fill();
+    const disk = ctx.createRadialGradient(x - r * 0.25, y - r * 0.25, r * 0.1, x, y, r);
+    disk.addColorStop(0, "#FFFFFF"); disk.addColorStop(1, "#CFDDEE");
+    ctx.fillStyle = disk;
+    ctx.strokeStyle = "#9FB3CC";
+    ctx.lineWidth = 2;
+    ctx.beginPath(); ctx.arc(x, y, r, 0, Math.PI * 2); ctx.fill(); ctx.stroke();
+    ctx.fillStyle = "rgba(195,210,228,0.6)";
+    for (const [dx, dy, cr] of [[-24, -18, 12], [24, 24, 17], [12, -30, 7], [-30, 22, 6]] as const) {
+      ctx.beginPath(); ctx.arc(x + dx, y + dy, cr, 0, Math.PI * 2); ctx.fill();
+    }
+    ctx.beginPath(); ctx.arc(x, y, r, 0, Math.PI * 2); ctx.clip();
+    if (b < 1) ctx.fillStyle = `rgba(20,32,62,${((1 - b) * 0.9).toFixed(3)})`;
+    else { ctx.globalCompositeOperation = "lighter"; ctx.fillStyle = `rgba(255,255,255,${((b - 1) * 0.45).toFixed(3)})`; }
+    ctx.fillRect(x - r, y - r, r * 2, r * 2);
     ctx.restore();
   }
 

diff --git a/web/src/config.ts b/web/src/config.ts
@@ -83,8 +83,10 @@ export const CFG = {
     lockAfter: 0.3,            // s the strings stay locked after the L pose is seen
     cooldown: 10,              // s
     kinds: { chien_binh_tuyet: "giantSword", ve_binh_streltsy: "swordRain" } as Record<string, "giantSword" | "swordRain">,
-    giantSword: { fallTime: 0.7, detach: 1, hitWidth: 34, knockback: 7 },
-    swordRain: { duration: 4, perSecond: 14, spread: 300, knockback: { min: 6, max: 11 } },
+    // white: the hit target breaks apart for scatterTime s, then flies back together
+    giantSword: { fallTime: 0.7, hitWidth: 34, scatterTime: 3, assembleTime: 0.8, scatterSpeed: [8, 16] },
+    // red: swords fly in from every side (not from below) at the target; random knockback direction
+    swordRain: { duration: 4, perSecond: 14, aimSpread: 140, speed: [1100, 1500], knockback: { min: 6, max: 11 } },
     testKeys: ["u", "i"],      // keyboard: cast for puppet 1 / puppet 2 (mouse testing)
   },
 

diff --git a/web/src/main.ts b/web/src/main.ts
@@ -85,7 +85,7 @@ function spawn() {
   const xs = ids.length === 1 ? [800] : ids.map((_, i) => 670 + (260 * i) / Math.max(1, ids.length - 1));
   puppets = ids.map((id, i) => new Puppet(world, assets.find((a) => a.id === id)!, stage, xs[i], LABELS[id] ?? id));
   trackers.clear();
-  for (const p of puppets) p.onEvent = (e) => (e === "cut" ? sfx.stringCut() : sfx.stringAttach());
+  for (const p of puppets) p.onEvent = (e) => (e === "cut" ? sfx.stringCut() : e === "assembled" ? sfx.ultCast() : sfx.stringAttach());
 }
 
 // Which hand drives which puppet: sort hands left->right and give them to the puppets

diff --git a/assets/background_snow/gen_background_snow.py b/assets/background_snow/gen_background_snow.py
@@ -1,7 +1,7 @@
 """Snow-mountain camp at night, 1600 x 900, same flat ink style as the other assets.
 
 Outputs (drawn by the web app in this order):
-  stage_sky.png    night sky, stars, moon (the aurora is animated on top of it)
+  stage_sky.png    night sky and stars (the moon and the aurora are animated on top of it)
   stage_bg.png     mountains, pine forest, camp tents, campfire stones, snowy ground
   (puppet)
   stage_fg.png     snow drifts and big pines in front of the puppet
@@ -63,11 +63,7 @@ def sky():
         '<radialGradient id="g_moon" cx="0.4" cy="0.4"><stop offset="0" stop-color="#FFFFFF"/>'
         '<stop offset="1" stop-color="#CFDDEE"/></radialGradient></defs>'
         f'<rect width="{W}" height="{H}" fill="url(#g_sky)"/>' + stars + sparkle
-        + '<circle cx="1260" cy="190" r="220" fill="url(#g_moonglow)"/>'
-        + f'<circle cx="1260" cy="190" r="78" fill="url(#g_moon)" stroke="#9FB3CC" stroke-width="2"/>'
-        + '<circle cx="1236" cy="172" r="12" fill="#C3D2E4" opacity="0.6"/>'
-        + '<circle cx="1284" cy="214" r="17" fill="#C3D2E4" opacity="0.5"/>'
-        + '<circle cx="1272" cy="160" r="7" fill="#C3D2E4" opacity="0.6"/>'
+        # the moon itself is drawn (and animated) by the web app, see stage.json "moon"
     )
 
 
@@ -248,6 +244,7 @@ json.dump({
     "fire": {"x": FIRE[0], "y": FIRE[1] - 6},
     "tentGlows": glows,
     "aurora": {"y0": 110, "y1": 330},
-    "note": "web order: sky, aurora, bg, far snow, flags, fire, puppet, near snow, fg, wind",
+    "moon": {"x": 1260, "y": 190, "r": 78},
+    "note": "web order: sky, moon, aurora, bg, far snow, flags, fire, puppet, near snow, fg, wind",
 }, open(os.path.join(OUT, "stage.json"), "w"), indent=2)
 print("snow background done")

diff --git a/assets/puppet/chien_binh_tuyet/gen_chien_binh_tuyet.py b/assets/puppet/chien_binh_tuyet/gen_chien_binh_tuyet.py
@@ -340,8 +340,8 @@ COLLIDERS = {
     "torso": {"density": 1.0, "shapes": [capsule_shape((200, 236), (200, 318), 40)]},
     "head": {"density": 0.8, "shapes": [circle((200, 142), 38), capsule_shape((166, 88), (234, 88), 24)]},
     "braid": {"density": 0.25, "shapes": [capsule_shape((170, 175), (160, 365), 12)]},
-    "cape": {"density": 0.2, "shapes": [capsule_shape((200, 260), (200, 560), 48)]},
-    "skirt": {"density": 0.3, "shapes": [capsule_shape((200, 410), (200, 590), 62)]},
+    "cape": {"density": 0.2, "shapes": [capsule_shape((200, 260), (200, 520), 48), capsule_shape((136, 570), (264, 570), 30)]},
+    "skirt": {"density": 0.3, "shapes": [capsule_shape((200, 410), (200, 560), 62), capsule_shape((136, 612), (264, 612), 30)]},
     "spear": {"density": 0.5, "shapes": [capsule_shape((SPEAR_X, 20), (SPEAR_X, 664), 7)]},
     "upper_arm_L": {"density": 1.0, "shapes": ARM_U}, "upper_arm_R": {"density": 1.0, "shapes": side(ARM_U)},
     "forearm_L": {"density": 1.0, "shapes": ARM_F}, "forearm_R": {"density": 1.0, "shapes": side(ARM_F)},

diff --git a/assets/puppet/ve_binh_streltsy/gen_ve_binh_streltsy.py b/assets/puppet/ve_binh_streltsy/gen_ve_binh_streltsy.py
@@ -299,7 +299,7 @@ COLLIDERS = {
     "torso": {"density": 1.0, "shapes": [capsule_shape((200, 236), (200, 318), 40)]},
     "head": {"density": 0.8, "shapes": [circle((200, 142), 38), capsule_shape((168, 84), (232, 84), 30)]},
     "braid": {"density": 0.25, "shapes": [capsule_shape((230, 175), (240, 365), 12)]},
-    "skirt": {"density": 0.3, "shapes": [capsule_shape((200, 390), (200, 540), 46)]},
+    "skirt": {"density": 0.3, "shapes": [capsule_shape((200, 390), (200, 520), 46), capsule_shape((156, 552), (244, 552), 22)]},
     "saber": {"density": 0.4, "shapes": [capsule_shape((GRIP[0], GRIP[1] - 30), (GRIP[0] - 14, GRIP[1] - 180), 7),
                                           capsule_shape((GRIP[0] - 14, GRIP[1] - 180), SABER_TIP, 6)]},
     "upper_arm_L": {"density": 1.0, "shapes": ARM_U}, "upper_arm_R": {"density": 1.0, "shapes": side(ARM_U)},

diff --git a/README.md b/README.md
@@ -58,8 +58,8 @@ Cử chỉ: bàn tay hình chữ L (ngón trỏ duỗi, ngón cái duỗi ngang,
 
 | Nhân vật | Đại chiêu |
 |---|---|
-| Chiến binh tuyết | Kiếm băng khổng lồ rơi xuống đầu đối thủ (né được). Trúng thì đối thủ mất dây 1 giây. |
-| Vệ binh Streltsy | Mưa kiếm băng quanh đối thủ trong 4 giây. Đối thủ mất dây suốt 4 giây và bị hất văng khắp màn hình. |
+| Chiến binh tuyết | Kiếm băng khổng lồ rơi xuống đầu đối thủ (né được). Trúng thì đối thủ vỡ thành từng mảnh văng tứ tung 3 giây, sau đó các mảnh bay về ghép lại thành người và dây nối lại với tay. |
+| Vệ binh Streltsy | Kiếm băng bay tới đối thủ từ mọi hướng (trên, hai bên, chéo) trong 4 giây. Đối thủ mất dây suốt 4 giây, mỗi thanh trúng hất văng theo hướng ngẫu nhiên. |
 
 - Hồi chiêu 10 giây, vòng tròn trên đầu mỗi nhân vật cho biết khi nào dùng lại được.
 - Test bằng phím: `U` (nhân vật 1), `I` (nhân vật 2).
